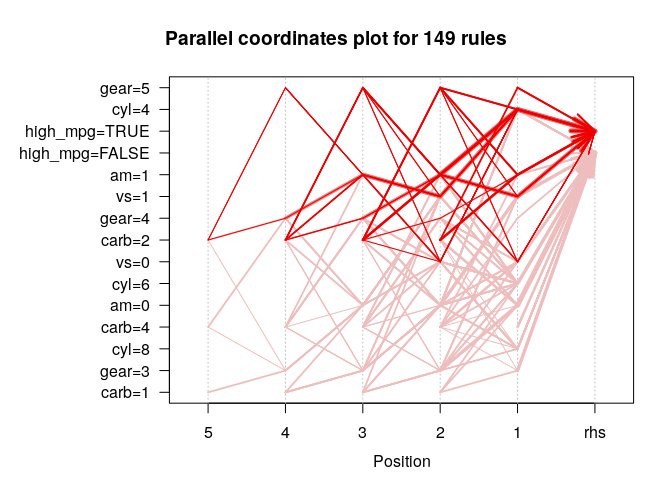
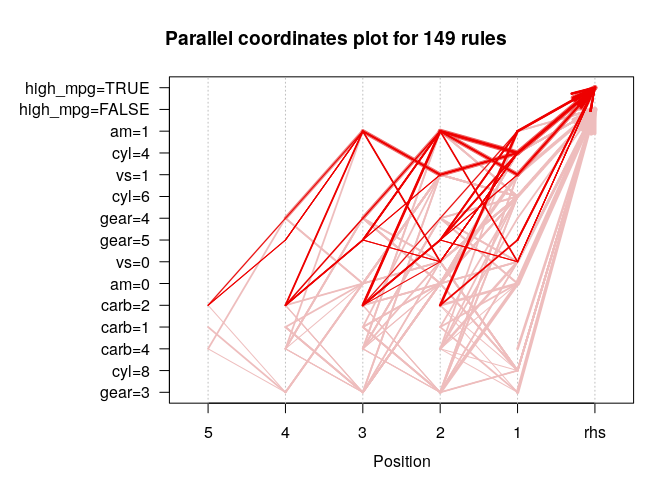
some small updates

diff --git a/project1/DA420_Project1_GRAHN_v2.md b/project1/DA420_Project1_GRAHN_v2.md
@@ -1,0 +1,130 @@
+DA420\_PROJECT1\_GRAHN\_V2
+================
+Jason Grahn
+1/11/2019
+
+``` r
+#showing the data
+head(datasets, 10)
+```
+
+    ## # A tibble: 10 x 3
+    ##    dataset     x     y
+    ##    <chr>   <dbl> <dbl>
+    ##  1 p2       53.4  90.2
+    ##  2 p2       52.8  90.1
+    ##  3 p2       47.1  90.5
+    ##  4 p2       42.4  89.5
+    ##  5 p2       42.7  90.4
+    ##  6 p2       32.4  90.1
+    ##  7 p2       32.5  70.2
+    ##  8 p2       33.4  70.5
+    ##  9 p2       32.7  70.1
+    ## 10 p2       23.0  70.4
+
+``` r
+tail(datasets, 10)
+```
+
+    ## # A tibble: 10 x 3
+    ##    dataset     x     y
+    ##    <chr>   <dbl> <dbl>
+    ##  1 p4       79.7  20.7
+    ##  2 p4       64.2  14.9
+    ##  3 p4       66.9  20.2
+    ##  4 p4       66.9  18.2
+    ##  5 p4       39.6  22.7
+    ##  6 p4       37.9  26.5
+    ##  7 p4       86.5  34.9
+    ##  8 p4       50.8  79.0
+    ##  9 p4       51.2  85.1
+    ## 10 p4       40.9  82.9
+
+``` r
+#showing summary stats for mean and standard deviation are nearly identical
+summary_stats <- datasets %>%
+  group_by(dataset) %>% 
+  summarise(mean_x = round(mean(x), 2),
+            mean_y = round(mean(y), 2),
+            sd_x = round(sd(x), 2),
+            sd_y = round(sd(y), 2)) 
+
+summary_stats
+```
+
+    ## # A tibble: 4 x 5
+    ##   dataset mean_x mean_y  sd_x  sd_y
+    ##   <chr>    <dbl>  <dbl> <dbl> <dbl>
+    ## 1 p1        54.3   47.8  16.8  26.9
+    ## 2 p2        54.3   47.8  16.8  26.9
+    ## 3 p3        54.3   47.8  16.8  26.9
+    ## 4 p4        54.3   47.8  16.8  26.9
+
+``` r
+#showing linear models are the same
+lm_v <- datasets %>% 
+  filter(dataset %in% c("p1")) %>% 
+  group_by(dataset) %>% 
+  lm(x ~ y, .)
+lm_v
+```
+
+    ## 
+    ## Call:
+    ## lm(formula = x ~ y, data = .)
+    ## 
+    ## Coefficients:
+    ## (Intercept)            y  
+    ##    56.33807     -0.04323
+
+``` r
+lm_h <- datasets %>% 
+  filter(dataset %in% c("p2")) %>% 
+  group_by(dataset) %>% 
+  lm(x ~ y, .)
+lm_h
+```
+
+    ## 
+    ## Call:
+    ## lm(formula = x ~ y, data = .)
+    ## 
+    ## Coefficients:
+    ## (Intercept)            y  
+    ##    56.09850     -0.03841
+
+``` r
+lm_x <- datasets %>% 
+  filter(dataset %in% c("p3")) %>% 
+  group_by(dataset) %>% 
+  lm(x ~ y, .)
+lm_x
+```
+
+    ## 
+    ## Call:
+    ## lm(formula = x ~ y, data = .)
+    ## 
+    ## Coefficients:
+    ## (Intercept)            y  
+    ##    56.21394     -0.04084
+
+``` r
+lm_hl <- datasets %>% 
+  filter(dataset %in% c("p4")) %>% 
+  group_by(dataset) %>% 
+  lm(x ~ y, .)
+```
+
+``` r
+#showing the plotting
+datasets %>% 
+  group_by(dataset) %>%
+  ggplot(aes(x = x, y = y)) +
+  geom_point(aes(color = dataset)) +
+  facet_wrap(~dataset, nrow = 2) +
+  theme_light() +
+  theme(legend.position="none")
+```
+
+![](DA420_Project1_GRAHN_v2_files/figure-markdown_github/unnamed-chunk-4-1.png)

diff --git a/discussion3/discussion3_code.md b/discussion3/discussion3_code.md
@@ -7,9 +7,9 @@ The instructor has us blindly running the code from <https://blog.revolutionanal
 
 So, I'm running it. But this is a better resource: <http://www.rdatamining.com/examples/association-rules>
 
-I'll run this on mtcars.
+going to try running it on mtcars,
 
-Have to load `MTcars` and make the columns into factors
+Have to load `MTcars` and make get the factor columns
 -----------------------------------------------------
 
 ``` r
@@ -32,12 +32,12 @@ idx <- sample(1:nrow(mt.mute), 5)
 mt.mute[idx, ]
 ```
 
-    ##   cyl vs am gear carb high_mpg
-    ## 1   4  1  1    4    1     TRUE
-    ## 7   6  0  1    4    4    FALSE
-    ## 4   4  1  1    4    1     TRUE
-    ## 5   4  0  1    5    2     TRUE
-    ## 9   4  1  1    4    1    FALSE
+    ##    cyl vs am gear carb high_mpg
+    ## 11   8  0  0    3    2    FALSE
+    ## 14   4  1  0    4    2    FALSE
+    ## 6    4  1  1    5    2     TRUE
+    ## 4    4  1  1    4    1     TRUE
+    ## 2    4  1  1    4    2     TRUE
 
 ``` r
 summary(mt.mute)
@@ -109,7 +109,7 @@ rules <- apriori(mt.mute)
 #head(inspect(rules),15)
 ```
 
-And now we want to make some rules for high\_mpg = TRUE
+and now we want to make some rules for high\_mpg = TRUE
 -------------------------------------------------------
 
 ``` r
@@ -123,7 +123,7 @@ rules <- apriori(mt.mute,
 rules.sorted <- sort(rules, by="lift")
 ```
 
-#So we find redundant rules if it's possible!
+So we find redundant rules if it's possible!
 
 ``` r
 # find redundant rules
@@ -138,7 +138,7 @@ subset.matrix[lower.tri(subset.matrix, diag=T)] <- NA
 redundant <- colSums(subset.matrix, na.rm=T) >= 1
 ```
 
-#Ok, so which rules are redundant?
+Ok, so which rules are redundant?
 
 ``` r
 #putting a head on this because it's rather long
@@ -164,7 +164,7 @@ rules.pruned <- rules.sorted[!redundant]
 inspect(rules.pruned)
 ```
 
-#interpretation
+interpretation
 
 ``` r
 library(arulesViz)
